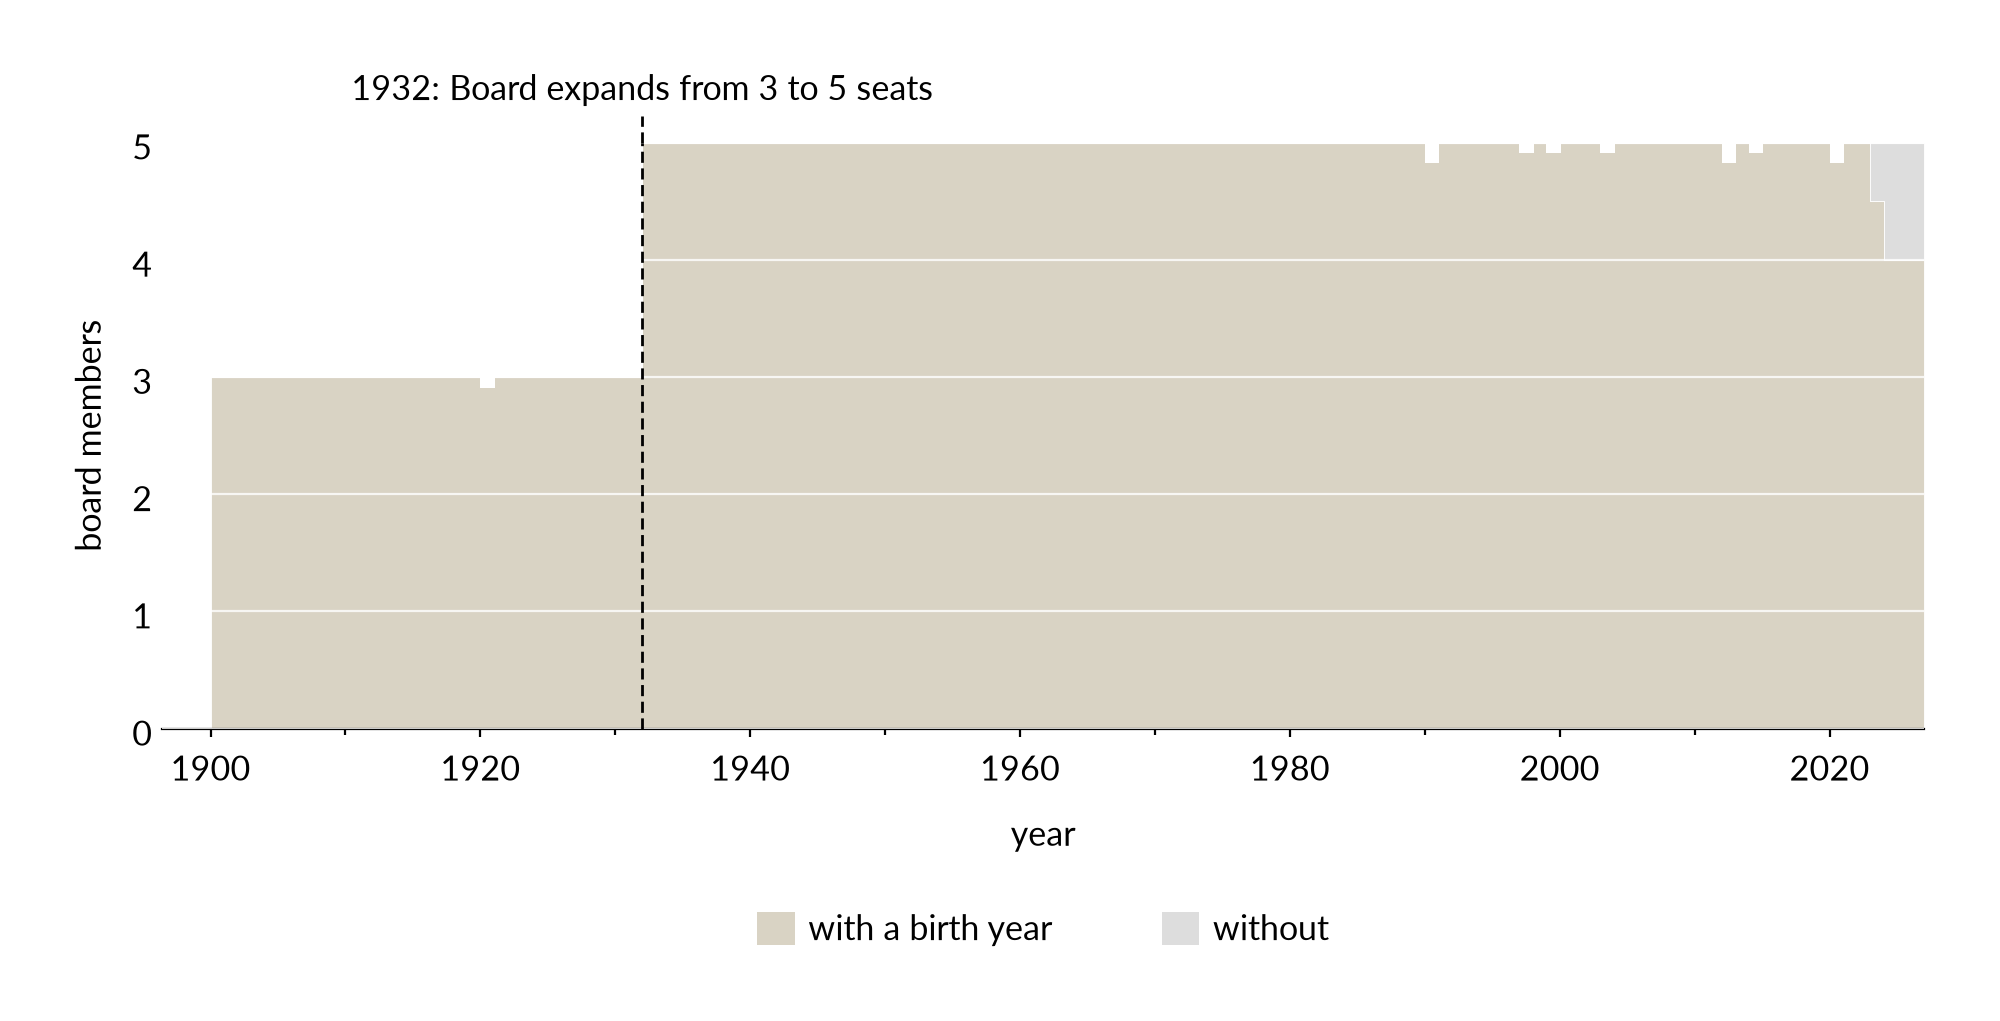
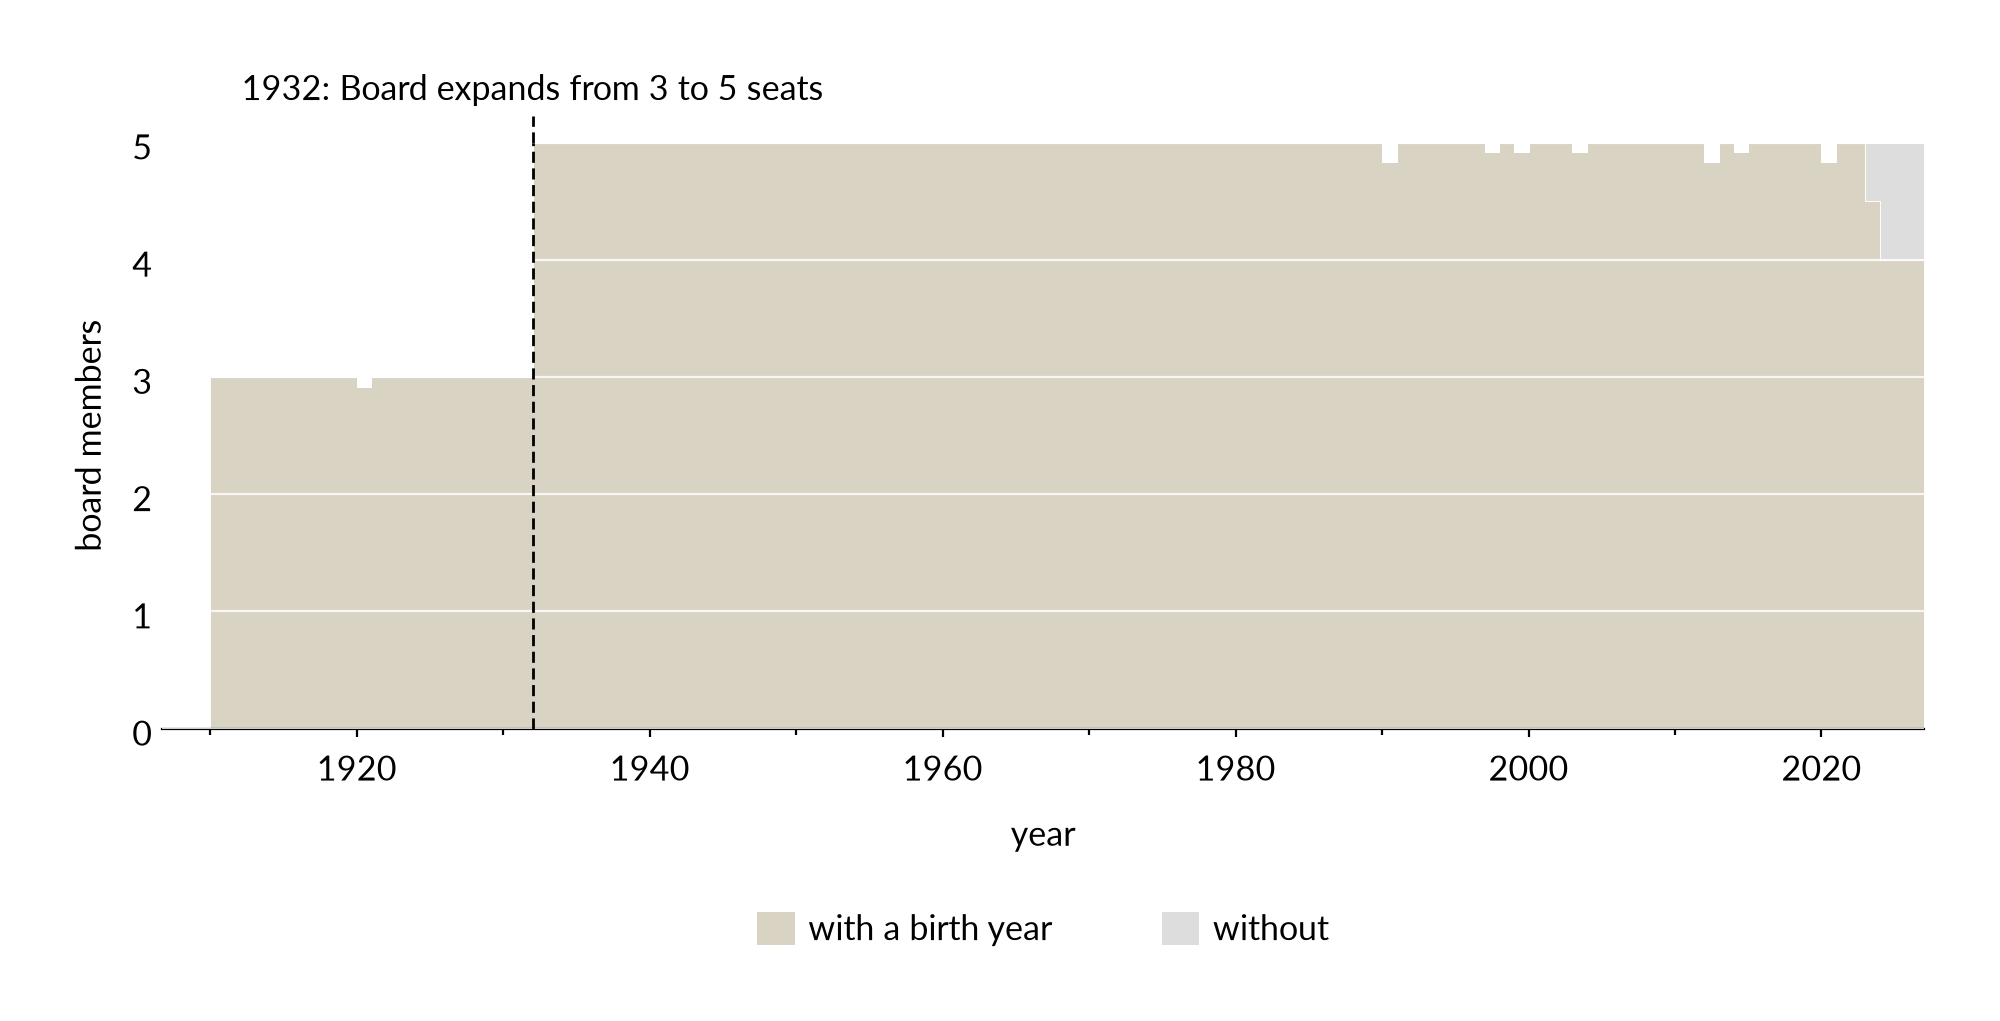
age figures begin in 1910, the first census whose ages can be counted, to match residents_by_age

diff --git a/code/analysis/members_age.py b/code/analysis/members_age.py
@@ -1,4 +1,4 @@
-"""Ages of the Board, 1900-2026 -> figures/members_age.pdf, .png
+"""Ages of the Board, 1910-2026 -> figures/members_age.pdf, .png
 
 A Lexis diagram: age against year. Behind, the youngest-to-oldest span of the
 members holding a seat in each month, drawn where every member in it either
@@ -23,7 +23,7 @@ FIRST, LAST = members.AGE_FIRST, members.LAST
 # arrives without a birth year and is not named here stops the build rather
 # than quietly widening the tolerance. Susan Cunningham and Tannia Talento
 # are recent enough that a stated age should be findable (docs/members.md,
-# "What rests on an assumption"). The four members before 1900 with no birth
+# "What rests on an assumption"). The four members before 1910 with no birth
 # year sit outside the figure's span.
 UNKNOWN = {"Susan R. Cunningham", "Tannia Talento"}
 MERGE_WITHIN = 12           # months between terms that still make one stroke

diff --git a/code/analysis/members.py b/code/analysis/members.py
@@ -13,4 +13,4 @@ import paths
 
 _by_year = paths.read("members_by_year")
 FIRST, LAST = int(_by_year.year.min()), int(_by_year.year.max())
-AGE_FIRST = 1900    # the age figures begin with the censuses' ages (docs/members.md, "Birth years")
+AGE_FIRST = 1910    # the age figures begin with the first census whose ages can be counted (docs/residents.md)

diff --git a/code/analysis/members_age_coverage.py b/code/analysis/members_age_coverage.py
@@ -1,4 +1,4 @@
-"""How many seat-years have a member with a birth year, 1900-2026
+"""How many seat-years have a member with a birth year, 1910-2026
 -> figures/members_age_coverage.pdf, .png
 
 A stacked step area of the seat-years in each year, those held by a member

diff --git a/docs/members.md b/docs/members.md
@@ -32,8 +32,8 @@ birth year rests on an obituary and a railroad notice, not a census (below).
 on the ages in census listings and on an age stated in an obituary or a
 profile. Each is right to within a year. The age figure draws a year only where
 every sitting member either has a birth year or is one of the two the figure
-names, and it runs from 1900 to the present, the first census whose ages the
-residents figures can set beside the Board's. Four members before 1900 have no
+names, and it runs from 1910 to the present, the first census whose ages the
+residents figures can set beside the Board's. Four members before 1910 have no
 birth year: H. Dwight Smith, Lott W. Crocker, William H. Robinson and Walter G.
 Willson, each found in no census under any spelling tried and in no Gazette
 item that gives an age (above); they sit outside the figure. The two it names

diff --git a/docs/figures.md b/docs/figures.md
@@ -490,7 +490,7 @@ there the labels can be shortened and here the years cannot.
   band's edges and the band moves only when the Board changes (Sally). There
   is no legend: the caption names the
   band and the strokes (same decision).
-  The figure runs from 1900 to the present, where the censuses' ages begin
+  The figure runs from 1910 to the present, where the censuses' ages begin
   and every sitting member has a birth year but two recent ones (named in
   UNKNOWN), so the band is one continuous ribbon; the four early members
   without a birth year sit before it (Sally, 4 October 2026). Before 1932 the
